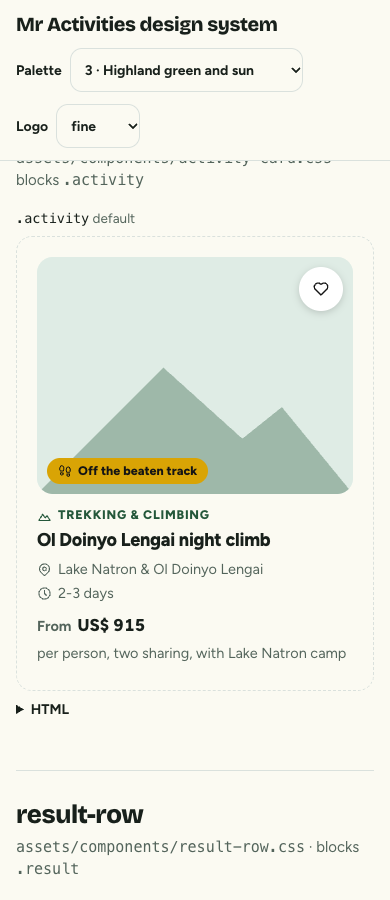
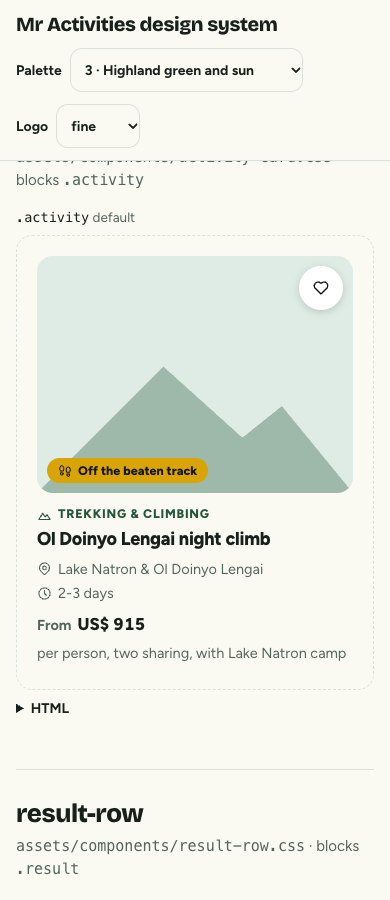
Breakpoints: the strays the cut actually carries

diff --git a/assets/tokens/breakpoints.md b/assets/tokens/breakpoints.md
@@ -20,5 +20,5 @@ The screens checked are 390, 820 and 1440 px wide.
 ## Strays
 
 Carried over from the engine with the rules that use them, to fold into the three widths when those components are
-next touched: 479 px (language menu), 600 px (map popup), 640 px (map key), 720 px (two days), 1279 px (header
+next touched: 600 px (map popup), 640 px (map key), 720 px (two days), 1279 px (header
 navigation), and `min-width: 1081px` (the desktop-only header search).
